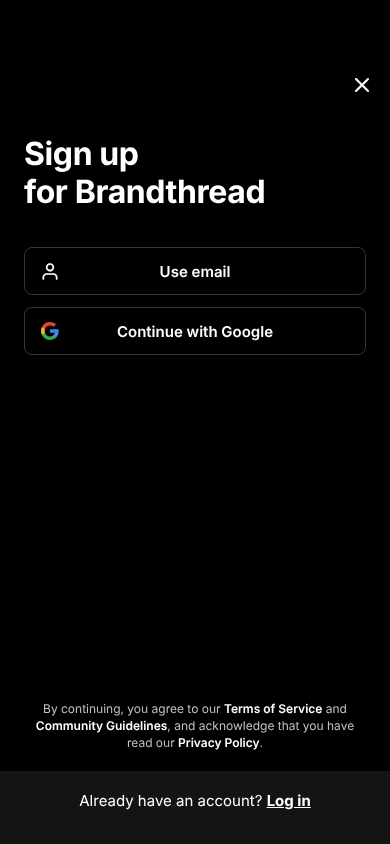
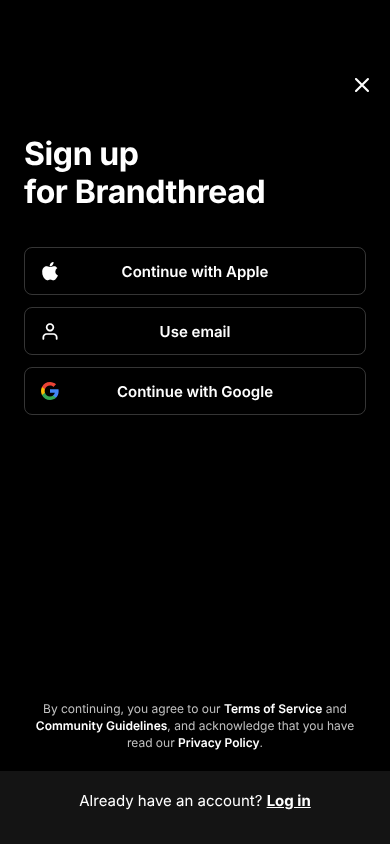
Onboarding: Continue with Apple first, on every platform
Sign up and Log in now list "Continue with Apple" first (Depop / TikTok),
through the existing Clerk oauth_apple strategy. Apple is no longer
iOS-only: oauthProviderVisibility shows it wherever the oauthAppleEnabled
flag is on (browser redirect on Android/web), and still never lets Google
stand alone on iOS (App Store 4.8). /sign-in shares the same rule.

Claude-Session: https://claude.ai/code/session_01HrtRDX1cvJUMpDrptZLrRm

diff --git a/artifacts/mobile/tests/onboarding-flow-e2e.test.tsx b/artifacts/mobile/tests/onboarding-flow-e2e.test.tsx
@@ -78,7 +78,11 @@ const h = vi.hoisted(() => {
     ai: { brandMemoryRebuild: vi.fn(async () => ({})) },
   };
   const storage = new Map<string, string>();
-  return { host, calls, clerk, signUp, signIn, api, storage, router: { replace: vi.fn(), push: vi.fn(), back: vi.fn() } };
+  const startSSOFlow = vi.fn(async ({ strategy }: { strategy: string }) => {
+    calls.push(`clerk.sso:${strategy}`);
+    return { createdSessionId: 'sess_1', setActive: async () => { clerk.signedIn = true; clerk.notify(); } };
+  });
+  return { host, calls, clerk, signUp, signIn, api, storage, startSSOFlow, router: { replace: vi.fn(), push: vi.fn(), back: vi.fn() } };
 });
 
 vi.mock('react-native', () => ({
@@ -135,7 +139,7 @@ vi.mock('@clerk/expo', () => {
     useUser: () => { useClerkTick(); return { isLoaded: true, user: h.clerk.signedIn ? { id: 'user_1', firstName: 'Sam', lastName: 'Lee', primaryEmailAddress: { emailAddress: 'sam@example.com' } } : null }; },
     useSignUp: () => ({ signUp: h.signUp }),
     useSignIn: () => ({ signIn: h.signIn }),
-    useSSO: () => ({ startSSOFlow: vi.fn(async () => ({ createdSessionId: 'sess_1', setActive: async () => { h.clerk.signedIn = true; h.clerk.notify(); } })) }),
+    useSSO: () => ({ startSSOFlow: h.startSSOFlow }),
   };
 });
 vi.mock('@/contexts/AppThemeContext', () => ({
@@ -291,6 +295,20 @@ describe('launch onboarding (real screen, mocked Clerk + API)', () => {
     expect(h.calls).not.toContain('notifications.request');
     expect(h.router.replace).toHaveBeenLastCalledWith('/(tabs)/');
     expect(h.router.push).toHaveBeenLastCalledWith('/store-setup-brand');
+  });
+
+  it('offers Continue with Apple first and signs up through Clerk oauth_apple after the birthday', async () => {
+    await render();
+    const options = tree.root.findAll((n) => typeof n.type === 'string' && ['onboarding-apple', 'onboarding-use-email', 'onboarding-google'].includes(n.props.testID));
+    expect(options.map((n) => n.props.testID)).toEqual(['onboarding-apple', 'onboarding-use-email', 'onboarding-google']);
+
+    await press('onboarding-apple');
+    expect(has('onboarding-birthday')).toBe(true);
+    expect(h.calls).toEqual([]);
+    await type('onboarding-dob', '01152000');
+    await press('onboarding-dob-continue');
+    expect(h.calls).toEqual(['clerk.sso:oauth_apple']);
+    expect(has('onboarding-username')).toBe(true);
   });
 
   it('an email that already has an account logs in with a code instead (Depop: one field for both)', async () => {

diff --git a/artifacts/mobile/components/onboarding/launch/WelcomeScreen.tsx b/artifacts/mobile/components/onboarding/launch/WelcomeScreen.tsx
@@ -1,7 +1,7 @@
 /**
  * Welcome — TikTok "Sign up for TikTok" / "Log in to TikTok", 1:1:
  * big left-aligned title, stacked hairline option rows (icon left, label
- * centred), the legal line near the bottom, and a grey footer band with
+ * centred; Continue with Apple first, as Depop does), the legal line near the bottom, and a grey footer band with
  * "Already have an account? Log in" (toggles to the log-in variant).
  * Mobbin: https://mobbin.com/screens/46bf3222-f4bb-4584-9906-e4df964b3fe0
  *         https://mobbin.com/screens/29a6cf9e-6c19-46f8-8b27-f387df675e40
@@ -67,13 +67,6 @@ export function WelcomeScreen({
           {signup ? 'Sign up\nfor Brandthread' : 'Log in to Brandthread'}
         </Text>
         <View style={s.options}>
-          <OutlineOption
-            testID="onboarding-use-email"
-            label={signup ? 'Use email' : 'Use phone or email'}
-            icon={<Feather name="user" size={20} color={theme.text} />}
-            onPress={onEmail}
-            disabled={!!busy}
-          />
           {onApple ? (
             <OutlineOption
               testID="onboarding-apple"
@@ -84,6 +77,13 @@ export function WelcomeScreen({
               disabled={!!busy && busy !== 'apple'}
             />
           ) : null}
+          <OutlineOption
+            testID="onboarding-use-email"
+            label={signup ? 'Use email' : 'Use phone or email'}
+            icon={<Feather name="user" size={20} color={theme.text} />}
+            onPress={onEmail}
+            disabled={!!busy}
+          />
           {onGoogle ? (
             <OutlineOption
               testID="onboarding-google"

diff --git a/artifacts/mobile/lib/oauthFlow.ts b/artifacts/mobile/lib/oauthFlow.ts
@@ -2,16 +2,18 @@ export const BRANDTHREAD_URL_SCHEME = 'brandthread';
 export const APPLE_OAUTH_STRATEGY = 'oauth_apple' as const;
 
 /**
- * Which social buttons to render. App Store 4.8: on iOS, Google may only be
- * offered while Sign in with Apple is offered too, so a server-side flag flip
- * that turns Apple off can never leave Google as the only social login.
- * Apple is iOS-only in the app (Android/web have no Apple button today).
+ * Which social buttons to render. Sign in with Apple is offered on every
+ * platform whenever its flag is on (Clerk's `oauth_apple` runs as a browser
+ * redirect on Android/web, natively on iOS) — TikTok and Depop show it
+ * everywhere. App Store 4.8: on iOS, Google may only be offered while Apple
+ * is offered too, so a server-side flag flip that turns Apple off can never
+ * leave Google as the only social login.
  */
 export function oauthProviderVisibility(
   os: string,
   flags: { apple: boolean; google: boolean },
 ): { apple: boolean; google: boolean } {
-  const apple = os === 'ios' && flags.apple;
+  const apple = flags.apple;
   const google = flags.google && (os !== 'ios' || apple);
   return { apple, google };
 }

diff --git a/artifacts/mobile/lib/oauthFlow.test.ts b/artifacts/mobile/lib/oauthFlow.test.ts
@@ -47,8 +47,9 @@ describe("oauthProviderVisibility (App Store 4.8)", () => {
     expect(oauthProviderVisibility("ios", { apple: false, google: true })).toEqual({ apple: false, google: false });
   });
 
-  it("keeps Android and web unchanged (Apple is iOS-only in the app)", () => {
-    expect(oauthProviderVisibility("android", { apple: true, google: true })).toEqual({ apple: false, google: true });
+  it("offers Apple on Android and web too, and lets Google stand alone there if Apple is flagged off", () => {
+    expect(oauthProviderVisibility("android", { apple: true, google: true })).toEqual({ apple: true, google: true });
+    expect(oauthProviderVisibility("web", { apple: true, google: true })).toEqual({ apple: true, google: true });
     expect(oauthProviderVisibility("web", { apple: false, google: true })).toEqual({ apple: false, google: true });
   });
 });
